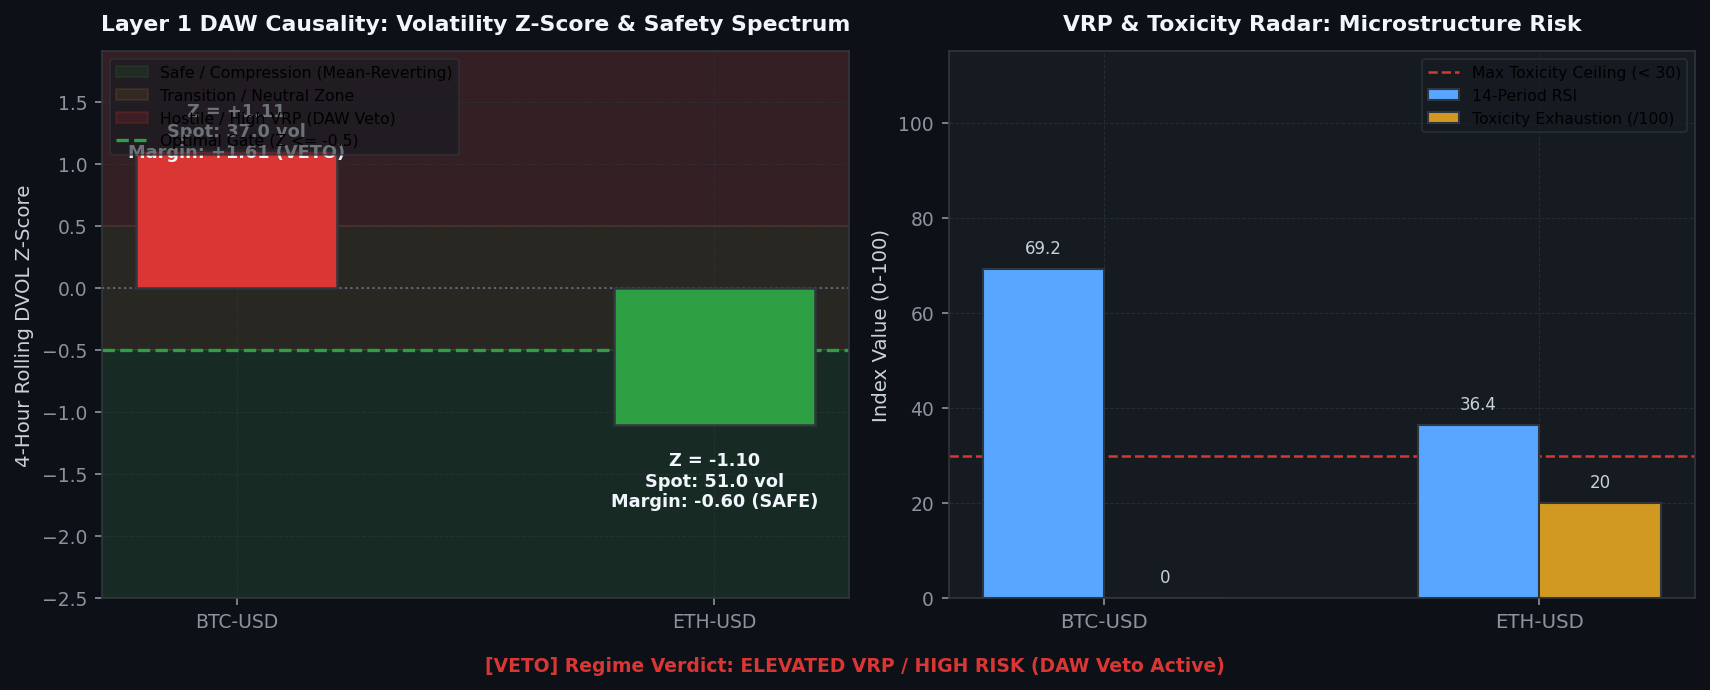
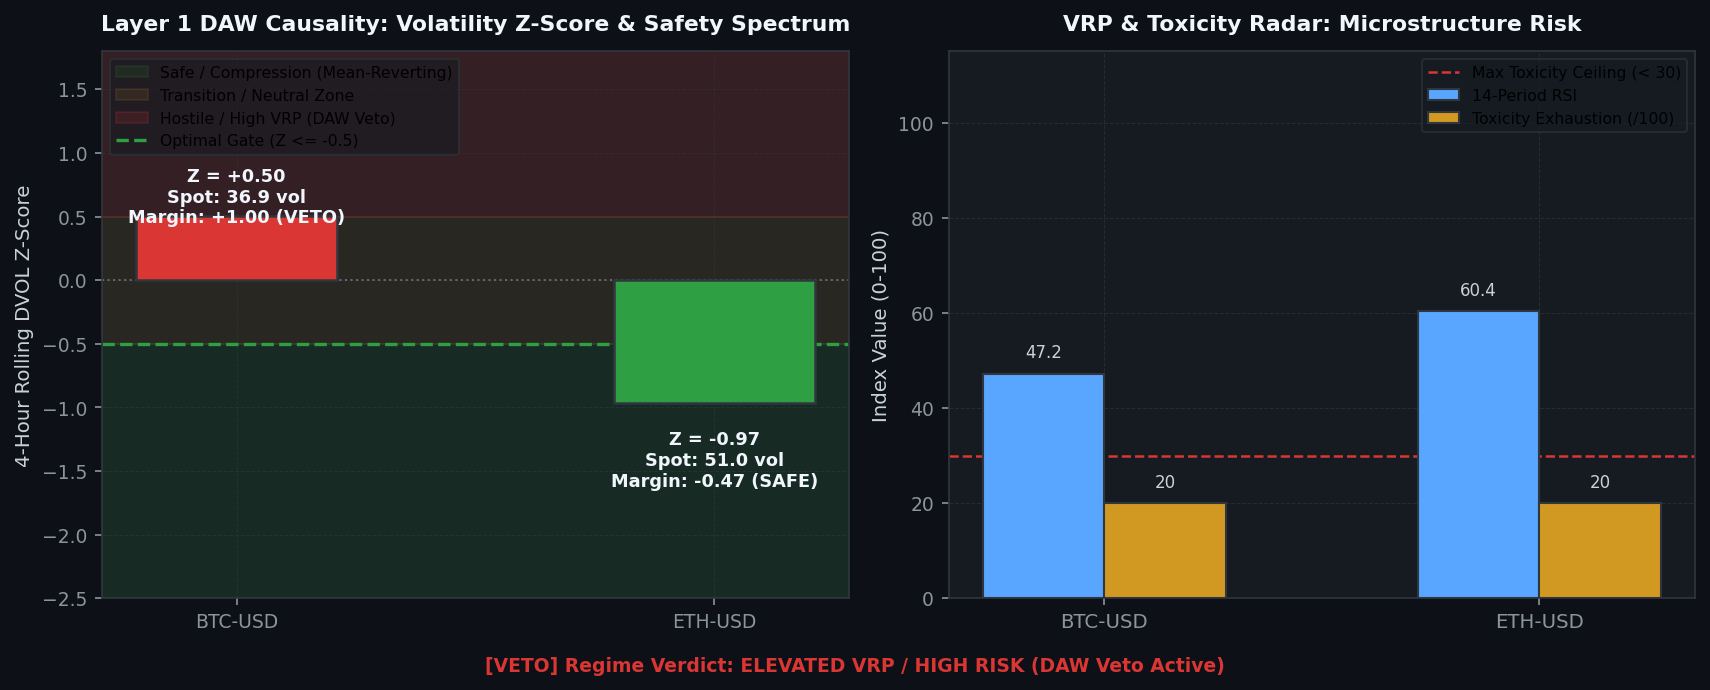
[coinbase] Hourly Status & Visual Intelligence Update: 2026-08-30 14:00:19

diff --git a/coinbase/data/hourly_status_report.md b/coinbase/data/hourly_status_report.md
@@ -3,7 +3,7 @@ layout: default
 ---
 
 # 🛡 Unified Trading System Hourly Status & Visual Intelligence
-> **Report Generated**: `2026-08-30 01:45:37 PM PDT (2026-08-30 20:45:37 UTC)`  
+> **Report Generated**: `2026-08-30 02:00:02 PM PDT (2026-08-30 21:00:02 UTC)`  
 > **System Health**: **🟡 DEGRADED / RESTRICTED** | **Win Rate**: `0.0%` | **Completed Trades**: `0`
 
 
@@ -15,13 +15,13 @@ Real-time Deribit implied volatility (DVOL) proxy tracking against mathematicall
 
 | Symbol | Proxy Oracle | Live Z-Score | Optimal Limit (YSP) | Safety Margin | Live VRP | Optimal VRP (YSP) | DAW Safety Verdict |
 | :--- | :--- | :--- | :--- | :--- | :--- | :--- | :--- |
-| `AVAX-USD` | DVOL_BTC | **+1.02** | **-0.50** | **+1.52** | **+14.75** | 5.0 | 🔴 DAW VETOED |
-| `ETH-USD` | DVOL_ETH | **-1.10** | **-0.50** | **-0.60** | **+28.40** | 5.0 | 🔴 DAW VETOED |
-| `ADA-USD` | DVOL_BTC | **+1.02** | **-0.50** | **+1.52** | **+14.69** | 5.0 | 🔴 DAW VETOED |
-| `DOGE-USD` | DVOL_BTC | **+1.02** | **-0.50** | **+1.52** | **+14.99** | 5.0 | 🔴 DAW VETOED |
-| `BTC-USD` | DVOL_BTC | **+1.02** | **-0.50** | **+1.52** | **+14.34** | 5.0 | 🔴 DAW VETOED |
-| `LINK-USD` | DVOL_BTC | **+1.02** | **-0.50** | **+1.52** | **+14.69** | 5.0 | 🔴 DAW VETOED |
-| `SOL-USD` | DVOL_BTC | **+1.02** | **-0.50** | **+1.52** | **+14.34** | 5.0 | 🔴 DAW VETOED |
+| `AVAX-USD` | DVOL_BTC | **+0.50** | **-0.50** | **+1.00** | **+14.56** | 5.0 | 🔴 DAW VETOED |
+| `ETH-USD` | DVOL_ETH | **-1.04** | **-0.50** | **-0.54** | **+28.66** | 5.0 | 🔴 DAW VETOED |
+| `ADA-USD` | DVOL_BTC | **+0.50** | **-0.50** | **+1.00** | **+14.55** | 5.0 | 🔴 DAW VETOED |
+| `DOGE-USD` | DVOL_BTC | **+0.50** | **-0.50** | **+1.00** | **+14.55** | 5.0 | 🔴 DAW VETOED |
+| `BTC-USD` | DVOL_BTC | **+0.50** | **-0.50** | **+1.00** | **+14.55** | 5.0 | 🔴 DAW VETOED |
+| `LINK-USD` | DVOL_BTC | **+0.50** | **-0.50** | **+1.00** | **+15.12** | 5.0 | 🔴 DAW VETOED |
+| `SOL-USD` | DVOL_BTC | **+0.50** | **-0.50** | **+1.00** | **+14.55** | 5.0 | 🔴 DAW VETOED |
 
 
 
@@ -37,16 +37,16 @@ We hereby certify that the mission-critical algorithmic data assets uploaded by 
 
 | Status | Data Asset | Freshness / State | Details / Timestamp |
 | :---: | :--- | :--- | :--- |
-| ✅ | **Go-List JSON** | Fresh (6.62h old) | 08-30 07:08 |
-| ✅ | **TimesFM Forecasts** | Fresh (0.89h old) | 08-30 12:52 |
-| ❌ | **Holding Times config** | STALE! (220.7h old) | Limit 162.8h |
-| ✅ | **BTC DVOL Cache** | Fresh (0.01h old) | 08-30 13:45 |
-| ✅ | **ETH DVOL Cache** | Fresh (0.00h old) | 08-30 13:45 |
-| ✅ | **Live Trading Telemetry** | Fresh (0.00h old) | 08-30 13:45 |
+| ✅ | **Go-List JSON** | Fresh (6.86h old) | 08-30 07:08 |
+| ✅ | **TimesFM Forecasts** | Fresh (1.13h old) | 08-30 12:52 |
+| ❌ | **Holding Times config** | STALE! (221.0h old) | Limit 163.0h |
+| ✅ | **BTC DVOL Cache** | Fresh (0.00h old) | 08-30 14:00 |
+| ✅ | **ETH DVOL Cache** | Fresh (0.00h old) | 08-30 14:00 |
+| ✅ | **Live Trading Telemetry** | Fresh (0.01h old) | 08-30 13:59 |
 
 <br>
 
-> **Utilization Certification**: ✅ **CERTIFIED.** The Guardian Watchdog is ONLINE and EC2 traders are actively querying the freshest MLOps data artifacts (Found 1456 recent read events).
+> **Utilization Certification**: ✅ **CERTIFIED.** The Guardian Watchdog is ONLINE and EC2 traders are actively querying the freshest MLOps data artifacts (Found 1565 recent read events).
 
 
 ---
@@ -55,7 +55,7 @@ Layer-by-layer tick evaluation waterfall and asset-specific performance tracking
 
 | Funnel Filter Layer | Total Rejections | % of Rejections |
 | :--- | :--- | :--- |
-| Tier 1: Macro Volatility Tensor Gate (Omega_macro) | `36,873` | **100.0%** |
+| Tier 1: Macro Volatility Tensor Gate (Omega_macro) | `37,096` | **100.0%** |
 | Tier 2: Unified Transport & Directional Engine | `0` | **0.0%** |
 | Tier 3: Continuous Hawkes-SFGK Pricer (HAS-Pricer) | `0` | **0.0%** |
 | System: Asset Cooldown Active | `0` | **0.0%** |
@@ -69,11 +69,11 @@ Layer-by-layer tick evaluation waterfall and asset-specific performance tracking
 | Asset | Trades | Win Rate | Loss Streak | Status |
 | :--- | :--- | :--- | :--- | :--- |
 | `BTC-USD` | 9 | 44.4% | 2 | ⚠ DRIFT |
-| `ADA-USD` | 52 | 63.5% | 2 | 🟢 OK |
+| `ADA-USD` | 53 | 64.2% | 0 | 🟢 OK |
 | `DOGE-USD` | 37 | 62.2% | 2 | 🟢 OK |
 | `ETH-USD` | 17 | 76.5% | 0 | 🟢 OK |
-| `LINK-USD` | 41 | 73.2% | 0 | 🟢 OK |
-| `AVAX-USD` | 33 | 66.7% | 0 | 🟢 OK |
+| `LINK-USD` | 42 | 73.8% | 0 | 🟢 OK |
+| `AVAX-USD` | 34 | 67.6% | 0 | 🟢 OK |
 | `SOL-USD` | 20 | 80.0% | 0 | 🟢 OK |
 
 ---
@@ -86,10 +86,8 @@ Live balance sheet and open maker liquidity positions from Coinbase CDP.
 | Product | Side | Limit Price | Order ID |
 | :--- | :--- | :--- | :--- |
 | `ACH-USD` | SELL | 0.005507 | `a0d2e243-42b4-4df5-bd23-118f45998df8` |
-| `LINK-USD` | SELL | 11.53 | `7786e45f-12b6-4aef-8cb0-1272a4a5de15` |
+| `LINK-USD` | BUY | 11.513 | `889010ee-123b-4952-9932-da5645c67368` |
 | `ETH-USD` | BUY | 2476.45 | `21b33716-ee39-405d-b203-8c5640f6fcb4` |
-| `ADA-USD` | SELL | 0.20141 | `c04523a4-44bc-493c-9f86-93c21adeec29` |
-| `AVAX-USD` | SELL | 7.361 | `bceeb694-ef1a-4a3f-88bd-bb34db0e2101` |
 
 
 
@@ -97,14 +95,14 @@ Live balance sheet and open maker liquidity positions from Coinbase CDP.
 ## 4. 🤖 Foundation Model MLOps & Pipeline Orchestration
 Weekly Algorithmic Mega Cap selection, Zero-shot multi-step forward return forecasts, and VSTEF parameter grid search status.
 
-- **TimesFM Forecast DB**: 🟢 Updated 0.9h ago (2026-08-30 12:52 PM PDT)
+- **TimesFM Forecast DB**: 🟢 Updated 1.1h ago (2026-08-30 12:52 PM PDT)
 - **Last Weekly VSTEF Optimization**: `2026-08-05 09:22:38 AM PDT`
-- **Next Scheduled VSTEF Run**: `2026-08-30 07:00:00 PM PDT (Monday 02:00 UTC)` (Countdown: **5.2h (0d 5h 14m)**)
+- **Next Scheduled VSTEF Run**: `2026-08-30 07:00:00 PM PDT (Monday 02:00 UTC)` (Countdown: **5.0h (0d 4h 59m)**)
 - **Promoted Parameter Gates**: $Z_{DVOL} \le -0.5$ | Holding Horizon $= 12\text{h}$
 
 ### Algorithmic Mega Cap Selection
 - **Last Run (Confirmation)**: `2026-08-30 07:08:16 AM PDT`
-- **Next Scheduled Run**: `2026-08-30 06:00:00 PM PDT (Monday 01:00 UTC)` (Countdown: **4.2h (0d 4h 14m)**)
+- **Next Scheduled Run**: `2026-08-30 06:00:00 PM PDT (Monday 01:00 UTC)` (Countdown: **4.0h (0d 3h 59m)**)
 - **Selected Mega Cap Universe**: `BTC, BCH, AVAX, ETH, ALGO, ADA, LTC, DOGE, AAVE, LINK, DOT, HBAR`
 
 
@@ -118,20 +116,20 @@ Visualizing the impact of the VSTEF (Volatility-Synchronized Stop-Tightening Exe
 ## 5. 🖥 Multi-Node Infrastructure & Watchdog Matrix
 ```text
 ================================================================================
-   🛡  SFGK FUNNEL GUARDIAN WATCHDOG (HFT ONLY) |  08:45:37 PM
-   CPU:   9.5%  |  MEM:   7.8% (14.2GB / 15.4GB Free)
+   🛡  SFGK FUNNEL GUARDIAN WATCHDOG (HFT ONLY) |  08:59:58 PM
+   CPU:  12.9%  |  MEM:   6.5% (14.4GB / 15.4GB Free)
 ================================================================================
 SERVICE              | PID      | STATUS          | RESTARTS | INFO
 --------------------------------------------------------------------------------
 L3 Consumer          | 1248201  | RUNNING         | -        | Continuous Websocket Feed
 MAO Daemon           | 1248309  | RUNNING         | -        | Oracle Yield Analysis
 U/U Farmer           | 1248311  | RUNNING         | -        | Volume Farmer
-Trader AVAX-USD      | 1286903  | RUNNING         | 83       | Evaluating Funnel/Polling Order
-Trader ETH-USD       | 1288860  | COOL-DOWN       | 129      | Next run in 8.9s
-Trader ADA-USD       | 1287094  | RUNNING         | 8        | Evaluating Funnel/Polling Order
-Trader DOGE-USD      | 1248315  | RUNNING         | 0        | Evaluating Funnel/Polling Order
-Trader BTC-USD       | 1288974  | COOL-DOWN       | 135      | Next run in 14.7s
-Trader LINK-USD      | 1287096  | RUNNING         | 77       | Evaluating Funnel/Polling Order
+Trader AVAX-USD      | 1300671  | COOL-DOWN       | 109      | Next run in 9.0s
+Trader ETH-USD       | 1300672  | COOL-DOWN       | 168      | Next run in 9.0s
+Trader ADA-USD       | 1300568  | COOL-DOWN       | 42       | Next run in 3.4s
+Trader DOGE-USD      | 1300872  | COOL-DOWN       | 33       | Next run in 14.7s
+Trader BTC-USD       | 1300876  | COOL-DOWN       | 174      | Next run in 14.7s
+Trader LINK-USD      | 1299643  | RUNNING         | 94       | Evaluating Funnel/Polling Order
 ```
 
 ---

diff --git a/coinbase/data/visual_intelligence.md b/coinbase/data/visual_intelligence.md
@@ -4,7 +4,7 @@ title: Visual Intelligence Gallery
 ---
 
 # 📈 Visual Intelligence Gallery
-> **Generated:** `2026-08-30 13:45:55`
+> **Generated:** `2026-08-30 14:00:19`
 > **[Return to Main Status Report](./hourly_status_report.md)**
 
 This page visualizes the internal states, market profiles, and decision criteria of the active **3-Tier Fused Decision Engine** across all layers.
